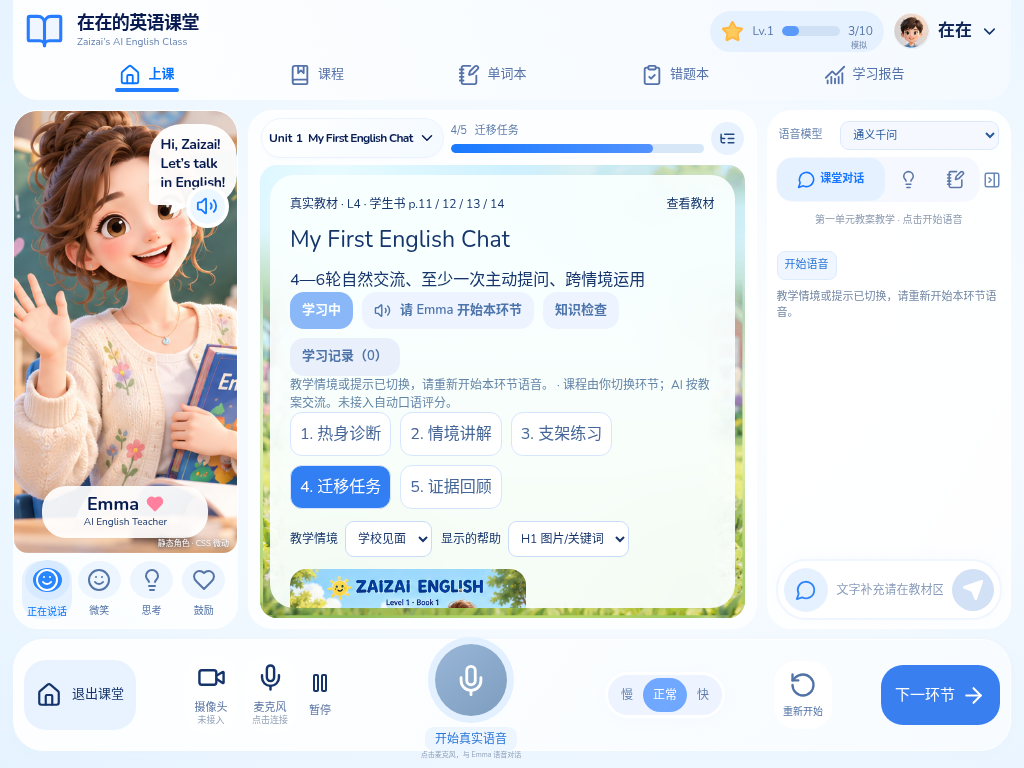
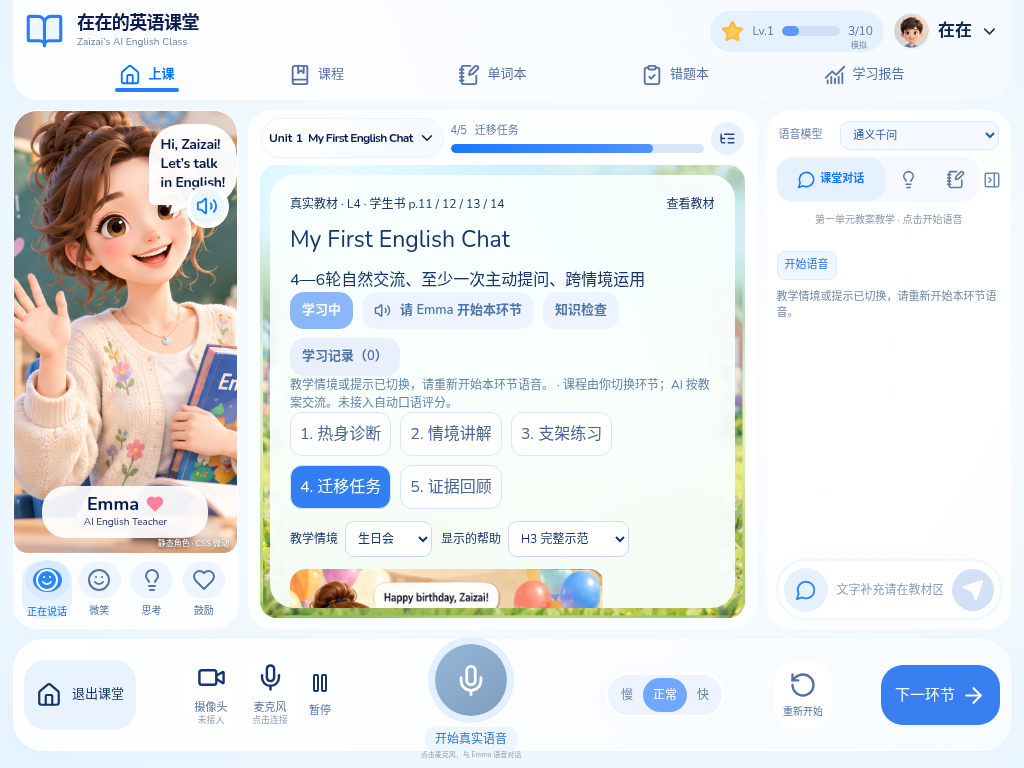
fix: keep full textbook answers out of low-level hints

Changed region(s): [[0.2812, 0.6875, 0.5938, 0.8125]]

diff --git a/tests/unit1.spec.ts b/tests/unit1.spec.ts
@@ -103,6 +103,17 @@ for (const [width, height] of [
         "src",
         /school_welcome/,
       );
+      await page
+        .getByRole("combobox", { name: "教学情境", exact: true })
+        .selectOption("birthday");
+      await expect(page.locator(".unit-scene-image img")).toHaveCount(0);
+      await page
+        .getByRole("combobox", { name: "提示等级", exact: true })
+        .selectOption("H3");
+      await expect(page.locator(".unit-scene-image img")).toHaveAttribute(
+        "src",
+        /birthday/,
+      );
     }
     await page
       .getByRole("button", { name: "学习记录（0）", exact: true })

diff --git a/src/data/unit1.ts b/src/data/unit1.ts
@@ -22,8 +22,11 @@ export function stageImage(
   scenario: string,
   hint: HintLevel,
 ) {
-  if (stage === 1 || stage === 2) return unitLesson(id).sceneImage;
-  if (stage === 3 && hint !== "H0")
+  if (stage === 1 || (stage === 2 && hint === "H3"))
+    return unitLesson(id).sceneImage;
+  if (stage === 3 && hint === "H1" && scenario === "school")
+    return "assets/school_welcome.png";
+  if (stage === 3 && hint === "H3")
     return scenario === "birthday"
       ? "assets/birthday.png"
       : "assets/school_welcome.png";

diff --git a/UNIT1_DELIVERY.md b/UNIT1_DELIVERY.md
@@ -42,3 +42,5 @@
 保持Pages前端和现有Render服务，不创建资源或开通付费服务。后端需运行本次含unit1Teaching能力的版本；旧后端会明确拒绝第一单元语音，不能悄悄退回Animals。真实设备麦克风、中文求助、4—6轮自然任务、连续停顿和打断质量仍需用户验收。
 
 最终本地验证：完整78项浏览器检查全部通过、后端18项全部通过、Pages生产构建通过。初轮发现的教材弹窗滚动丢失关闭入口已通过固定标题/底部并限制内部绘制修复；新增人工能力默认未指定，防止把未选择能力的记录自动归类。截图覆盖指定三种尺寸。线上部署须另行检查运行版本，不能用本地通过代替线上生效。
+
+提示图复查：支架阶段只有H3才显示带整句示范的教材图；迁移任务中生日图也只在H3显示。H1学校情境可用无姓名/年龄答案的封面图，生日情境H1和半句H2只显示对应关键词/半句，避免把图内完整答案误当成低等级帮助。扩展后的课程6项专项及构建再次通过。
